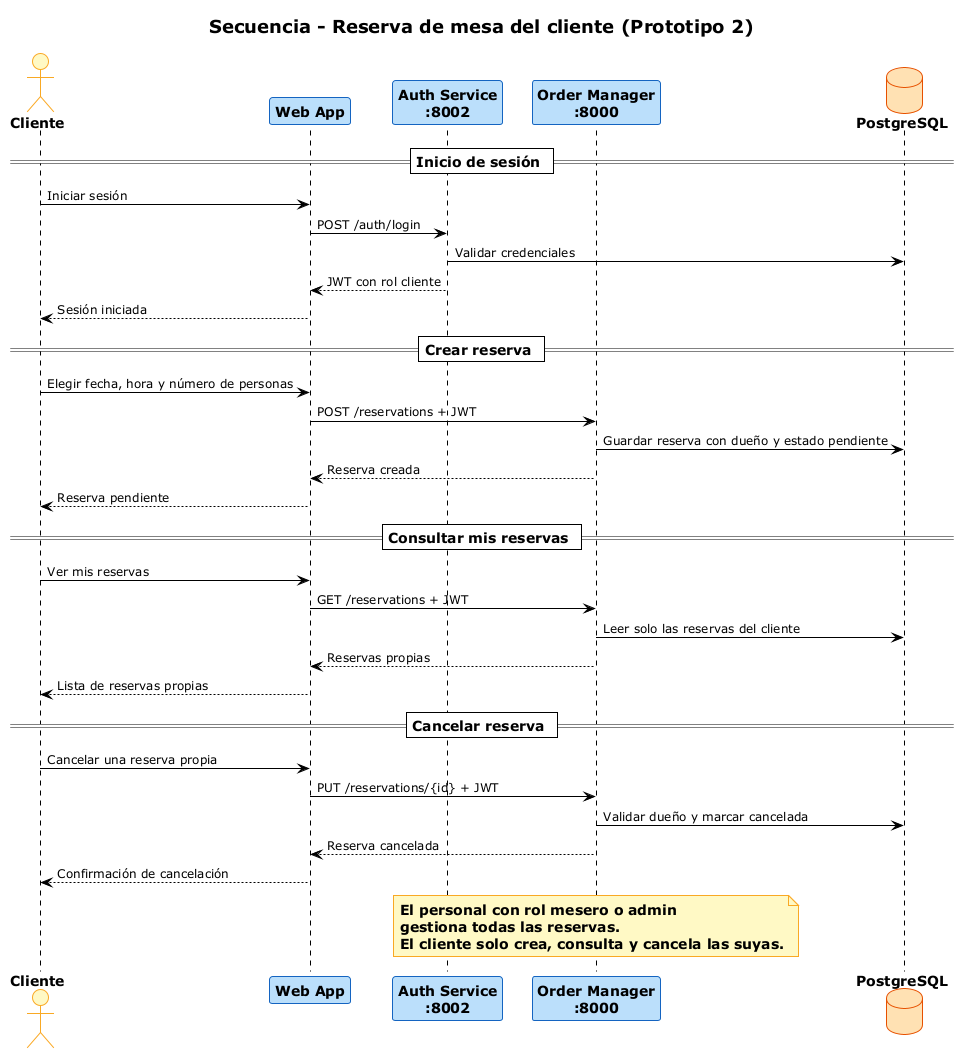
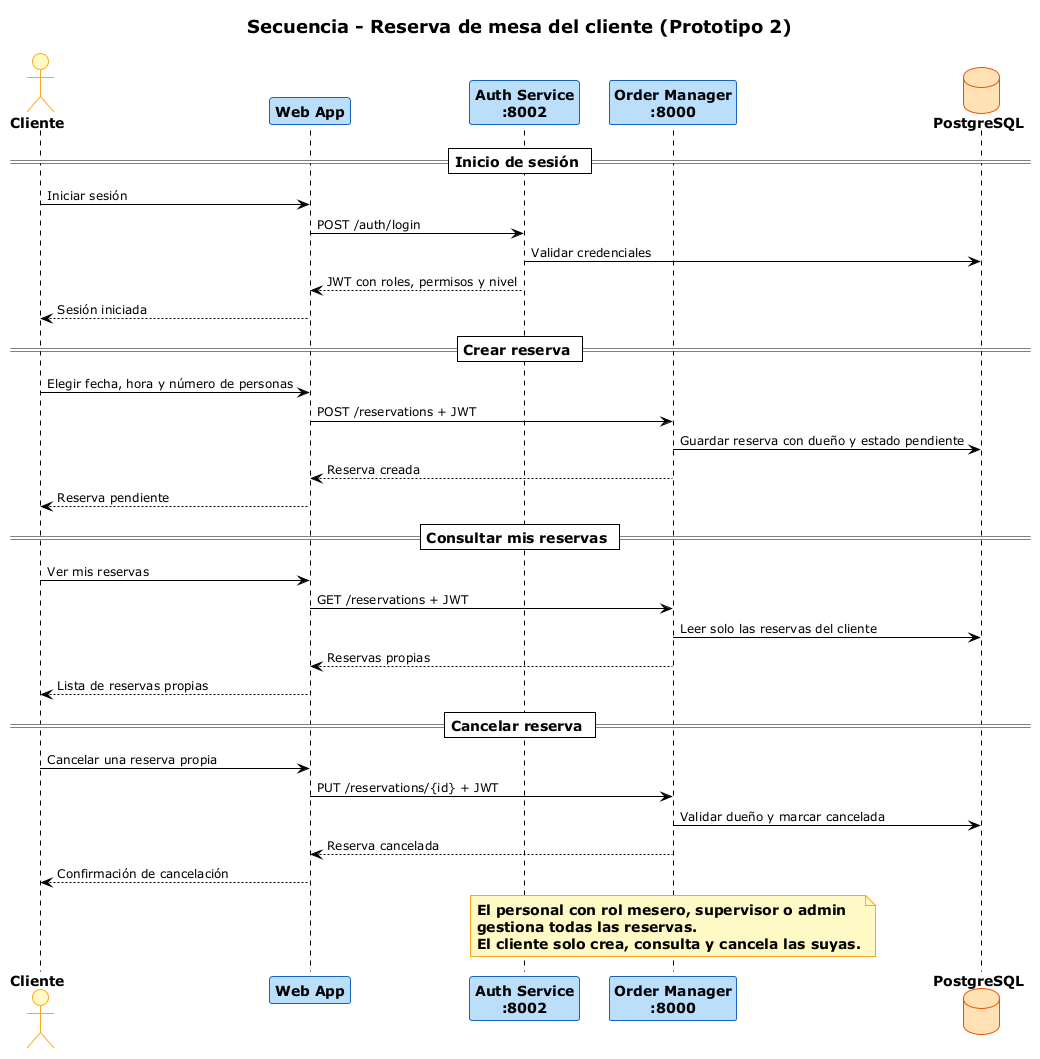
docs: define employee role hierarchy and multi-role accounts
Document the supervisor role, role hierarchy, multi-role accounts, permission matrix, authorization model and implementation plan. Update the prototype 2 C&C, tiers and sequence diagrams to reflect the new roles and JWT claims.

diff --git a/g3-H-PanTech/README.md b/g3-H-PanTech/README.md
@@ -34,7 +34,7 @@ Panadería Express resuelve el problema de la atención en una panadería con do
 
 Además de las vistas por rol, la Web App incluye una vista **Historial** para consultar los tiempos de las comandas (Requerimiento 9).
 
-> **Prototipo 2 (propuesto):** se agrega el rol `cliente`. Los roles de empleado pasan a ser `mesero`, `cocinero`, `despachador` y `admin`, y la vista *Historial* deja de ser un rol para convertirse en un permiso de lectura. El cliente se registra en la misma Web App, consulta el menú, **reserva una mesa**, crea pedidos **para llevar**, paga de forma simulada y sigue el estado de sus pedidos. También puede consultar y cancelar sus propias reservas. El personal conserva las vistas de cocina, despacho, catálogo e historial; el cliente no accede a ellas.
+> **Prototipo 2 (propuesto):** se agrega el rol `cliente`. Los roles de empleado pasan a ser `mesero`, `cocinero`, `despachador`, `supervisor` y `admin`, y la vista *Historial* deja de ser un rol para convertirse en un permiso de lectura. Cada empleado tiene su propia cuenta y puede tener uno o varios roles. El cliente se registra en la misma Web App, consulta el menú, **reserva una mesa**, crea pedidos **para llevar**, paga de forma simulada y sigue el estado de sus pedidos. También puede consultar y cancelar sus propias reservas. El personal conserva las vistas de cocina, despacho, catálogo e historial; el cliente no accede a ellas.
 
 #### Alcance del Prototipo 1
 
@@ -57,54 +57,133 @@ Para la cola de cocina se usa una regla sencilla basada en los tiempos estimados
 
 #### Alcance del Prototipo 2 (propuesto)
 
-El Prototipo 2 se enfoca en tres frentes: **autenticación y autorización de usuarios**, **autoservicio del cliente (reservas, pedidos y pago simulado)** y **priorización avanzada de la cola de cocina**. Además, recibe el Requerimiento 5, que no se implementó en el Prototipo 1. Los requerimientos se documentan como diseño objetivo; **aún no están implementados**.
+El Prototipo 2 se enfoca en tres frentes: **autenticación, autorización y jerarquía de usuarios**, **autoservicio del cliente (reservas, pedidos y pago simulado)** y **priorización avanzada de la cola de cocina**. Además, recibe el Requerimiento 5, que no se implementó en el Prototipo 1. Los requerimientos se documentan como diseño objetivo; **aún no están implementados**.
 
 **Requerimientos funcionales nuevos**
 
 | N.º | Requerimiento | Prioridad | Alcance | Estado |
 |---|---|---|---|---|
-| 10 | Registro, inicio de sesión y sesión de usuario | P2 | Implementar | Pendiente. Auth Service con usuarios, credenciales y JWT. El registro público crea usuarios con rol `cliente`. |
-| 11 | Autorización por roles y protección de endpoints | P2 | Implementar | Pendiente. Roles `cliente`, `mesero`, `cocinero`, `despachador` y `admin`; Historial como permiso de lectura. |
+| 10 | Registro, inicio de sesión y sesión de usuario | P2 | Implementar | Pendiente. Auth Service con usuarios, credenciales y JWT. El registro público crea usuarios con rol `cliente`; las cuentas de personal las crea un `admin`. |
+| 11 | Autorización por roles y protección de endpoints | P2 | Implementar | Pendiente. Roles `cliente`, `mesero`, `cocinero`, `despachador`, `supervisor` y `admin`; permisos por rol, cuentas multi-rol y validación de alcance. Historial como permiso de lectura. |
 | 12 | Priorización avanzada de la cola | P2 | Implementar | Pendiente. Ya existe SJF con desempate FIFO; faltan envejecimiento (aging), capacidad de cocina y ETA. |
-| 13 | Registro público y autenticación de clientes | P2 | Implementar | Pendiente. El formulario público solo crea el rol `cliente`; los roles de personal los asigna un `admin` o los datos semilla. |
+| 13 | Registro público y autenticación de clientes | P2 | Implementar | Pendiente. El formulario público solo crea el rol `cliente`; los roles de personal los asigna un `admin` (o un `supervisor` para cuentas operativas) o los datos semilla. |
 | 14 | Autoservicio del cliente: menú, pedido para llevar y pago | P2 | Implementar | Pendiente. El cliente arma su pedido y paga de forma simulada; el total se calcula en el servidor. |
 | 15 | Seguimiento del estado del pedido por parte del cliente | P2 | Implementar | Pendiente. El cliente consulta por polling el estado de sus propios pedidos a través del Order Manager. |
 | 16 | Historial de pedidos del cliente, limitado a sus propios pedidos | P2 | Implementar | Pendiente. El cliente solo ve sus pedidos; el personal autorizado ve el historial general. |
 | 17 | Reservar mesa desde la cuenta del cliente | P2 | Implementar | Pendiente. El cliente crea, consulta y cancela sus propias reservas (fecha, hora, número de personas y notas); solo ve las suyas. La reserva guarda `customer_id` y un estado `pendiente`, `confirmada` o `cancelada`. |
+| 18 | Gestión de cuentas de empleados y jerarquía | P2 | Implementar | Pendiente. El `admin` crea, desactiva y asigna uno o varios roles a las cuentas del personal; el `supervisor` puede gestionar cuentas operativas si tiene el permiso. Las cuentas no se eliminan y toda asignación queda auditada. |
 
 **Requerimientos del Prototipo 1 que pasan al Prototipo 2**
 
 | N.º | Requerimiento | Prioridad | Estado |
 |---|---|---|---|
-| 5 | Cobrar / confirmar pago y enviar comanda | P2 | Pendiente. El envío de la comanda a cocina ya está implementado; falta el cobro/confirmación de pago, que en el Prototipo 2 incluye el pago simulado del cliente y el cobro por `mesero` o `admin`. |
+| 5 | Cobrar / confirmar pago y enviar comanda | P2 | Pendiente. El envío de la comanda a cocina ya está implementado; falta el cobro/confirmación de pago, que en el Prototipo 2 incluye el pago simulado del cliente y el cobro por `mesero`, `supervisor` o `admin`. |
 
 **Requerimientos funcionales modificados**
 
 | N.º | Requerimiento | Cambio para el Prototipo 2 |
 |---|---|---|
-| 1 | Crear pedido para llevar o en mesa | Admite pedidos creados por `cliente` (solo `para_llevar`) y por `mesero` o `admin` (para llevar o en mesa). El pedido guarda `customer_id` tomado del JWT, nunca del cuerpo de la petición. |
-| 2 | Crear cita de reserva | El `cliente` puede crear, consultar y cancelar sus propias reservas; `mesero` o `admin` gestionan todas. La reserva guarda `customer_id` tomado del JWT y un estado `pendiente`, `confirmada` o `cancelada`. |
+| 1 | Crear pedido para llevar o en mesa | Admite pedidos creados por `cliente` (solo `para_llevar`) y por `mesero`, `supervisor` o `admin` (para llevar o en mesa). El pedido guarda `customer_id` tomado del JWT, nunca del cuerpo de la petición. |
+| 2 | Crear cita de reserva | El `cliente` puede crear, consultar y cancelar sus propias reservas; `mesero`, `supervisor` o `admin` gestionan todas. La reserva guarda `customer_id` tomado del JWT y un estado `pendiente`, `confirmada` o `cancelada`. |
 | 3 | Elegir productos de vitrina o preparados | Exige sesión autenticada; sigue siendo una operación de lectura. |
-| 4 | Ver menú y tiempos estimados | El menú lo consultan el `cliente` y el personal autenticado. |
-| 5 | Cobrar / confirmar pago y enviar comanda | El pago puede ser simulado por el cliente dueño del pedido o confirmado por `mesero`/`admin`. El total se calcula en el servidor y el pedido se encola **solo después** de confirmar el pago. |
-| 6 | Cambiar estado a *En preparación* o *Listo* | Exige rol `cocinero` o `admin`; valida capacidad de cocina si se implementa el scheduler avanzado. |
-| 7 | Confirmar entrega y retirar la orden | Exige rol `despachador` o `admin`. |
+| 4 | Ver menú y tiempos estimados | El menú lo consultan el `cliente` y todo el personal autenticado. |
+| 5 | Cobrar / confirmar pago y enviar comanda | El pago puede ser simulado por el cliente dueño del pedido o confirmado por `mesero`, `supervisor` o `admin`. El total se calcula en el servidor y el pedido se encola **solo después** de confirmar el pago. |
+| 6 | Cambiar estado a *En preparación* o *Listo* | Exige rol `cocinero`, `supervisor` o `admin`; valida capacidad de cocina si se implementa el scheduler avanzado. |
+| 7 | Confirmar entrega y retirar la orden | Exige rol `despachador`, `supervisor` o `admin`. |
 | 8 | CRUD de productos (minutos de preparación base) | Exige rol `admin`. |
-| 9 | Registrar y consultar el historial de estados | Historial deja de ser un rol y pasa a ser un permiso de lectura. El `cliente` solo consulta sus propios pedidos; el personal autorizado consulta el historial general. |
+| 9 | Registrar y consultar el historial de estados | Historial deja de ser un rol y pasa a ser un permiso de lectura. El `cliente` solo consulta sus propios pedidos; el personal autorizado (`supervisor` o `admin`) consulta el historial general. |
 
 **Requerimientos no funcionales que cambian**
 
 | Requerimiento | Cambio para el Prototipo 2 |
 |---|---|
 | Arquitectura distribuida | Se agrega `auth-service` y el sistema pasa de 5 a 6 componentes. La misma Web App sirve a clientes y empleados. |
-| Seguridad | Autenticación JWT, autorización por roles, HTTPS para Auth Service y credencial de servicio para la comunicación interna. |
+| Seguridad | Autenticación JWT, autorización por roles, permisos por acción, validación de alcance, HTTPS para Auth Service y credencial de servicio para la comunicación interna. |
 | Privacidad y propiedad de los datos | Un cliente solo puede consultar y pagar sus propios pedidos y gestionar sus propias reservas; la validación de propiedad se hace en el servidor a partir del JWT. |
-| Auditoría | Cada pago guarda `payment_method`, `total_amount`, `paid_at` y `paid_by`. |
-| Registro de usuarios | El registro público siempre crea el rol `cliente`; los roles de personal solo los asigna un `admin` o los datos semilla. |
+| Jerarquía y alcance | Los roles tienen un nivel y un alcance de datos. `admin` ve todo; `supervisor` ve toda la operación; los operativos ven solo su función; el `cliente` ve solo lo propio. |
+| Cuentas multi-rol | Una cuenta personal puede tener varios roles. Los permisos efectivos son la unión de sus roles y el nivel efectivo es el mayor. No se comparten cuentas. |
+| Auditoría | Cada pago guarda `payment_method`, `total_amount`, `paid_at` y `paid_by`. También se auditan la asignación de roles, la desactivación de cuentas y las acciones sensibles. |
+| Registro de usuarios | El registro público siempre crea el rol `cliente`; los roles de personal solo los asigna un `admin` o, para cuentas operativas, un `supervisor` con el permiso correspondiente. |
 | Persistencia | Se agregan los volúmenes `postgres_data` y `redis_data`; Redis con AOF para conservar la cola activa. |
 | Despliegue | Red interna `panaderia-net`; en producción no se publican `5432` ni `6379`. |
 | Tipos de conector | Se agregan `HTTPS / REST`, `HTTP / REST + JWT`, `HTTP Polling + JWT` y credencial de servicio. |
 | Actualización de la interfaz | Se mantiene **polling**; WebSocket/SSE queda como extensión futura. |
+
+##### Roles, jerarquía y permisos
+
+Los roles del Prototipo 2 no son pestañas de la interfaz: son **cuentas personales** con permisos y alcance. Una misma cuenta puede tener varios roles; los permisos efectivos son la unión de sus roles y el nivel efectivo es el mayor. `productos` e `historial` dejan de ser roles y pasan a ser permisos (`products:manage` y `history:read_all`).
+
+**Jerarquía**
+
+| Nivel | Rol | Tipo | Alcance | Responsabilidad |
+|---:|---|---|---|---|
+| 100 | `admin` | Empleado | Todo el sistema | Usuarios, roles, catálogo, reportes y configuración |
+| 80 | `supervisor` | Empleado | Toda la operación | Supervisa el turno, consulta historial, cancela pedidos y cubre a los operativos |
+| 50 | `mesero` | Empleado | Pedidos y reservas | Crea pedidos, cobra y gestiona reservas |
+| 50 | `cocinero` | Empleado | Cola de cocina | Consulta la cola y cambia estados de preparación |
+| 50 | `despachador` | Empleado | Pedidos listos | Confirma entregas |
+| 10 | `cliente` | Externo | Solo lo propio | Menú, reservas, pedidos para llevar, pago y seguimiento |
+
+Los tres roles operativos están en el mismo nivel jerárquico, pero tienen permisos distintos. La jerarquía no implica que un cocinero sea “superior” a un mesero: cada rol controla su función. `supervisor` no reemplaza a `admin`; supervisa la operación, pero no administra roles ni la configuración del sistema.
+
+**Multi-rol**
+
+Una cuenta personal puede tener varios roles. Por ejemplo, `mesero` + `despachador` permite crear y cobrar pedidos, además de confirmar entregas. No se crean cuentas compartidas: cada empleado tiene su propia cuenta y sus acciones quedan auditadas.
+
+**Matriz de permisos**
+
+| Permiso | cliente | mesero | cocinero | despachador | supervisor | admin |
+|---|:--:|:--:|:--:|:--:|:--:|:--:|
+| Ver menú | ✓ | ✓ | ✓ | ✓ | ✓ | ✓ |
+| Crear y pagar pedido propio | ✓ | — | — | — | — | — |
+| Ver sus propios pedidos | ✓ | — | — | — | — | — |
+| Crear pedido de mostrador | — | ✓ | — | — | ✓ | ✓ |
+| Cobrar pedido | — | ✓ | — | — | ✓ | ✓ |
+| Ver y cambiar cola de cocina | — | — | ✓ | — | ✓ | ✓ |
+| Ver pedidos listos y confirmar entrega | — | — | — | ✓ | ✓ | ✓ |
+| Gestionar reservas propias | ✓ | — | — | — | — | — |
+| Gestionar todas las reservas | — | ✓ | — | — | ✓ | ✓ |
+| Ver historial propio | ✓ | — | — | — | — | — |
+| Ver historial general y reportes | — | — | — | — | ✓ | ✓ |
+| CRUD de productos | — | — | — | — | — | ✓ |
+| Gestionar cuentas operativas | — | — | — | — | ✓ | ✓ |
+| Gestionar usuarios, roles y configuración | — | — | — | — | — | ✓ |
+
+**Modelo de datos de autorización**
+
+```text
+auth.users                 (id, email, password_hash, full_name, active, ...)
+auth.roles                 (id, name, description, level, is_staff)
+auth.permissions           (id, code, description)
+auth.user_roles            (user_id, role_id, assigned_at, assigned_by)
+auth.role_permissions      (role_id, permission_id)
+auth.audit_log             (id, user_id, action, entity, entity_id, created_at)
+```
+
+**Cuentas y jerarquía**
+
+- El registro público siempre crea `cliente`.
+- El `admin` crea las cuentas del personal y asigna uno o varios roles.
+- El `supervisor` puede gestionar cuentas operativas si tiene `users:manage_operational`, pero no puede crear `admin` ni modificar roles.
+- Las cuentas no se eliminan: se desactivan para conservar historial y auditoría.
+- Cada acción sensible registra quién la hizo y cuándo.
+
+**Autorización en los servicios**
+
+- El JWT incluye `sub`, `roles`, `permissions` y `level`.
+- Order Manager y Queue Scheduler validan la firma y los permisos localmente, sin consultar al Auth Service en cada petición.
+- Cada endpoint usa una dependencia tipo `require_permission("orders:create")`.
+- Además del permiso, se valida el alcance: `own`, `shift`, `all` o `kitchen`.
+- El frontend oculta vistas y botones según los permisos, pero la decisión real se valida en el backend.
+
+##### Plan de implementación del Prototipo 2
+
+1. Crear `auth-service` con el esquema `auth`, migraciones y datos semilla.
+2. Implementar registro de clientes, login, JWT y permisos.
+3. Proteger Order Manager y Queue Scheduler con `require_permission` y validación de alcance.
+4. Reemplazar el selector libre de roles del frontend por login y rutas protegidas.
+5. Agregar la administración de cuentas y roles para `admin`, y la gestión de cuentas operativas para `supervisor`.
+6. Probar los casos de denegación: cocinero no cobra, mesero no cambia estados de cocina, cliente no ve pedidos ajenos y supervisor no gestiona roles.
 
 > La trazabilidad de los requerimientos del Prototipo 2 se completará cuando se implementen. Por ahora solo se documenta el alcance y los cambios respecto al Prototipo 1.
 
@@ -137,12 +216,13 @@ El Prototipo 2 se enfoca en tres frentes: **autenticación y autorización de us
 
 El diseño del Prototipo 2 conserva la estructura del Prototipo 1 y agrega:
 
-- **Auth Service** (`:8002`) como sexto componente, encargado del registro, inicio de sesión y emisión de JWT.
+- **Auth Service** (`:8002`) como sexto componente, encargado del registro, inicio de sesión, emisión de JWT y administración de usuarios, roles, permisos y jerarquía.
 - **Cliente como nuevo actor:** se registra en la misma Web App, consulta el menú, reserva mesa, crea pedidos `para_llevar`, paga de forma simulada y sigue el estado de sus pedidos. También consulta y cancela sus propias reservas. No accede a la cola de cocina, al despacho, al catálogo ni al historial general.
-- **Autenticación y autorización (JWT + RBAC):** Order Manager y Queue Scheduler validan el token localmente; los roles son `cliente`, `mesero`, `cocinero`, `despachador` y `admin`, e Historial queda como permiso de lectura.
+- **Autenticación y autorización (JWT + RBAC):** Order Manager y Queue Scheduler validan el token localmente; los roles son `cliente`, `mesero`, `cocinero`, `despachador`, `supervisor` y `admin`, e Historial queda como permiso de lectura.
+- **Cuentas de empleado y jerarquía:** cada empleado tiene una cuenta personal y puede tener varios roles. La jerarquía es `admin` > `supervisor` > `mesero` / `cocinero` / `despachador`; el `cliente` es un actor externo separado. `productos` e `historial` son permisos, no roles.
 - **Pago simulado (Requerimiento 5):** la tabla `orders` guarda estado y datos de pago; el total se calcula en el servidor y el pedido se envía a cocina **solo después** de confirmar el pago.
 - **Queue Scheduler con priorización avanzada:** SJF + envejecimiento (aging) + capacidad de cocina + ETA, manteniendo el desempate FIFO.
-- **Mismo PostgreSQL con esquema `auth`** para usuarios y roles, sin agregar un contenedor de base de datos adicional.
+- **Mismo PostgreSQL con esquema `auth`** para usuarios, roles, permisos y jerarquía, sin agregar un contenedor de base de datos adicional.
 - **Polling** como mecanismo de actualización; WebSocket/SSE queda como extensión futura.
 
 > Los diagramas del Prototipo 2 representan el diseño objetivo. La implementación de estos cambios se realizará en la siguiente fase.
@@ -167,7 +247,7 @@ El flujo muestra el registro o inicio de sesión, la consulta del menú, la crea
 
 ![Secuencia - Reserva de mesa del cliente](docs/secuencia_cliente_reserva.png)
 
-El cliente crea, consulta y cancela sus propias reservas. La reserva queda asociada a su `customer_id` y a un estado (`pendiente`, `confirmada` o `cancelada`); el personal con rol `mesero` o `admin` conserva la gestión general de todas las reservas.
+El cliente crea, consulta y cancela sus propias reservas. La reserva queda asociada a su `customer_id` y a un estado (`pendiente`, `confirmada` o `cancelada`); el personal con rol `mesero`, `supervisor` o `admin` conserva la gestión general de todas las reservas.
 
 #### Estilos arquitectónicos utilizados
 
@@ -177,7 +257,7 @@ El cliente crea, consulta y cancela sus propias reservas. La reserva queda asoci
 - **Orientado a servicios:** la lógica se divide en dos servicios independientes con responsabilidades distintas (gestión de pedidos y gestión de la cola), desplegados por separado y comunicados por HTTP.
 - **Centrado en datos (repositorios):** dos almacenes de datos con roles distintos; uno relacional para datos persistentes y uno NoSQL para el estado temporal de la cola. El acceso a los almacenes se encapsula en repositorios (`order-manager/app/database.py`, `queue-scheduler/app/store.py`).
 - **Consulta periódica (pull / polling):** el cliente consulta cada cierto tiempo el estado de la cola en lugar de recibir notificaciones del servidor. Se deja WebSocket para la siguiente entrega. Evidencia: `frontend/src/hooks.ts` (`usePolling`).
-- **Interfaz de usuario basada en componentes:** la Web App se compone de vistas por rol y hooks reutilizables, con el cambio de rol resuelto por estado local. Evidencia: `frontend/src/App.tsx`, `frontend/src/views/` y `frontend/src/hooks.ts`.
+- **Interfaz de usuario basada en componentes:** la Web App se compone de vistas por rol y hooks reutilizables. En el Prototipo 1 el cambio de rol se resuelve por estado local; en el Prototipo 2 se resuelve con la sesión autenticada y los permisos. Evidencia: `frontend/src/App.tsx`, `frontend/src/views/` y `frontend/src/hooks.ts`.
 
 #### Elementos arquitectónicos
 
@@ -185,19 +265,19 @@ El cliente crea, consulta y cancela sus propias reservas. La reserva queda asoci
 
 | Componente | Tipo | Tecnología | Puerto | Responsabilidad |
 |---|---|---|---|---|
-| Web App | Cliente web (presentación) | React + Vite (JS/TS) | 80 | Interfaz por roles. En el Prototipo 1 sirve al personal: mesero, cocina, despacho, administración del catálogo e historial. En el Prototipo 2 también sirve al cliente: registro, menú, pedido, pago y seguimiento. |
+| Web App | Cliente web (presentación) | React + Vite (JS/TS) | 80 | Interfaz por permisos. En el Prototipo 1 sirve al personal: mesero, cocina, despacho, administración del catálogo e historial. En el Prototipo 2 también sirve al cliente: registro, menú, reservas, pedido, pago y seguimiento. El menú y las vistas se generan según los permisos de la cuenta. |
 | Order Manager | Servicio (lógica) | Python + FastAPI | 8000 | Gestión de pedidos, reservas y catálogo de productos (CRUD con tiempos de preparación base). |
 | Queue Scheduler | Servicio (lógica) | Python + FastAPI | 8001 | Gestión de la cola de cocina: ordena los pedidos con la regla de priorización, administra los estados de las comandas y persiste su historial. |
 | Relational DB | Base de datos relacional (datos) | PostgreSQL | 5432 | Datos persistentes: productos, tiempos base, pedidos, reservas e historial de estados de las comandas. |
 | NoSQL DB | Base de datos NoSQL clave-valor (datos) | Redis | 6379 | Cola activa de cocina y estados temporales de las comandas. |
 
-> En el diseño del Prototipo 2 se agrega el **Auth Service** (FastAPI, `:8002`), que centraliza usuarios, roles y emisión de JWT. Order Manager y Queue Scheduler validan el token localmente. La misma Web App expone las vistas del cliente y del personal según el rol.
+> En el diseño del Prototipo 2 se agrega el **Auth Service** (FastAPI, `:8002`), que centraliza usuarios, roles, permisos, jerarquía y emisión de JWT. Order Manager y Queue Scheduler validan el token localmente. La misma Web App expone las vistas del cliente y del personal según los permisos.
 
 **Actor externo**
 
 | Actor | Descripción |
 |---|---|
-| Empleado (Mesero / Cocinero / Despachador / Administrador del catálogo) | Usuario final del Prototipo 1. Interactúa con el sistema desde el navegador web. |
+| Empleado (Mesero / Cocinero / Despachador / Supervisor / Administrador) | Usuario final del Prototipo 1. Interactúa con el sistema desde el navegador web. En el Prototipo 2 cada empleado tiene su propia cuenta y puede tener uno o varios roles. |
 | Cliente (Prototipo 2) | Usuario final que se registra en la Web App, consulta el menú, reserva mesa, crea pedidos para llevar, paga de forma simulada y sigue el estado de sus pedidos. También consulta y cancela sus propias reservas. No accede a la cola de cocina, al despacho, al catálogo ni al historial general. |
 
 **Conectores**
@@ -211,7 +291,7 @@ El cliente crea, consulta y cancela sus propias reservas. La reserva queda asoci
 | 5 | Queue Scheduler | NoSQL DB (Redis :6379) | Protocolo Redis sobre TCP | Mantener la cola priorizada y los estados temporales. |
 | 6 | Queue Scheduler | Relational DB (SQL :5432) | SQL sobre TCP | Leer los tiempos base de preparación y registrar el historial de estados de las comandas en `order_status_events`. |
 
-> El Prototipo 2 agrega el conector Cliente → Web App (HTTPS) y los conectores Web App → Auth Service (HTTPS / REST) y Auth Service → PostgreSQL (SQL / TCP, esquema `auth`). También cambia el conector Order Manager → Queue Scheduler para usar una credencial de servicio y encolar solo pedidos pagados. El cliente consulta el estado y su historial a través del Order Manager, nunca directamente del Queue Scheduler. El detalle está en la Vista C&C y en el diagrama de secuencia del Prototipo 2.
+> El Prototipo 2 agrega el conector Cliente → Web App (HTTPS) y los conectores Web App → Auth Service (HTTPS / REST) y Auth Service → PostgreSQL (SQL / TCP, esquema `auth`, usuarios, roles, permisos y jerarquía). También cambia el conector Order Manager → Queue Scheduler para usar una credencial de servicio y encolar solo pedidos pagados. El cliente consulta el estado y su historial a través del Order Manager, nunca directamente del Queue Scheduler. El detalle está en la Vista C&C y en los diagramas de secuencia del Prototipo 2.
 
 #### Cumplimiento de los requisitos no funcionales
 
@@ -291,6 +371,6 @@ swarch-2026ii/               # Repositorio del curso (sección 3)
 - **El detalle de la comanda no se persiste en PostgreSQL.** El Queue Scheduler mantiene el detalle y el estado actual de las comandas en Redis; las comandas entregadas salen de las pantallas y se conservan en Redis con un TTL (1 hora por defecto, configurable con `DELIVERED_TTL_SECONDS`). Sin embargo, **el historial de estados sí se persiste** de forma durable en la tabla `order_status_events` (Requerimiento 9), por lo que los tiempos de preparación y entrega se conservan aunque expire el TTL. El Order Manager persiste el pedido base en PostgreSQL (`orders` / `order_items`) al crearlo.
 - La cola priorizada vive en un `ZSET` de Redis con `score` = tiempo estimado; el desempate por hora de llegada se resuelve al construir la vista de cocina.
 - El Prototipo 1 no incluye cobro/pago (Requerimiento 5, trasladado al Prototipo 2), priorización avanzada, alertas de tiempo, métricas, WebSocket/SSE ni autenticación.
-- El **Prototipo 2** incorpora en su diseño autenticación JWT/RBAC, el Auth Service, el rol `cliente` con autoservicio y pago simulado, el seguimiento e historial de pedidos propios, priorización con aging/capacidad/ETA, persistencia de Redis y el cobro/confirmación de pago (Requerimiento 5); su implementación está pendiente.
+- El **Prototipo 2** incorpora en su diseño autenticación JWT/RBAC, el Auth Service, la jerarquía de roles de empleado (`admin` > `supervisor` > operativos), cuentas multi-rol, el rol `cliente` con autoservicio y pago simulado, el seguimiento e historial de pedidos propios, priorización con aging/capacidad/ETA, persistencia de Redis y el cobro/confirmación de pago (Requerimiento 5); su implementación está pendiente.
 - **Validación de pedidos (Requerimiento 1).** Un pedido `en_mesa` exige número de mesa; un pedido `para_llevar` no lo requiere, pero tampoco se rechaza si se envía un número de mesa.
 - **En el Prototipo 1, el envío de la comanda a cocina (parte del Requerimiento 5) ya está implementado:** al crear un pedido, el Order Manager lo encola en el Queue Scheduler. Lo único pendiente de ese requerimiento es el cobro / confirmación de pago. En el Prototipo 2 el encolado se hará **después** de confirmar el pago.
